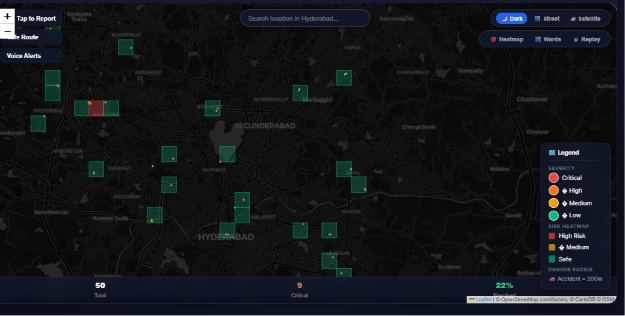
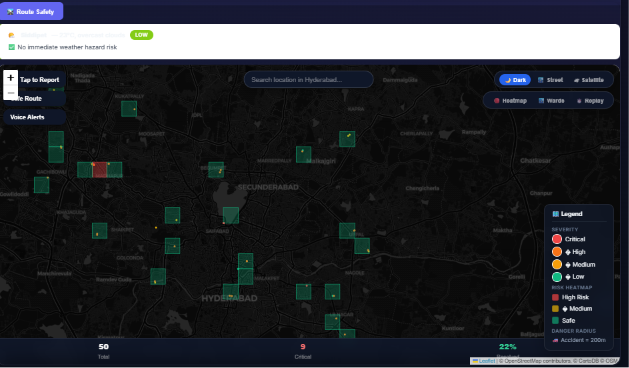
Add dashboard screenshots to docs and update README

diff --git a/README.md b/README.md
@@ -54,9 +54,33 @@ Indian cities face **thousands of unreported road hazards** — potholes, open m
 ## 📸 Screenshots
 
 <p align="center">
-  <strong>Interactive Live Hazard Map & Dashboard</strong>
+  <strong>1. Interactive Live Hazard Map Dashboard</strong>
   <br/>
   <img src="docs/screenshot_1_map.png" alt="Live Hazard Map Dashboard" width="100%"/>
+</p>
+
+<br/>
+
+<p align="center">
+  <strong>2. Real-Time Proximity Alerts & Verification Feed</strong>
+  <br/>
+  <img src="docs/screenshot_4_dashboard.png" alt="Real-Time Feed Dashboard" width="100%"/>
+</p>
+
+<br/>
+
+<p align="center">
+  <strong>3. Ward-Wise Government Shame Board</strong>
+  <br/>
+  <img src="docs/screenshot_2_shameboard.png" alt="Shame Board" width="100%"/>
+</p>
+
+<br/>
+
+<p align="center">
+  <strong>4. AI-Weighted Priority Queue Engine</strong>
+  <br/>
+  <img src="docs/screenshot_3_priority.png" alt="Priority Queue" width="100%"/>
 </p>
 
 ---